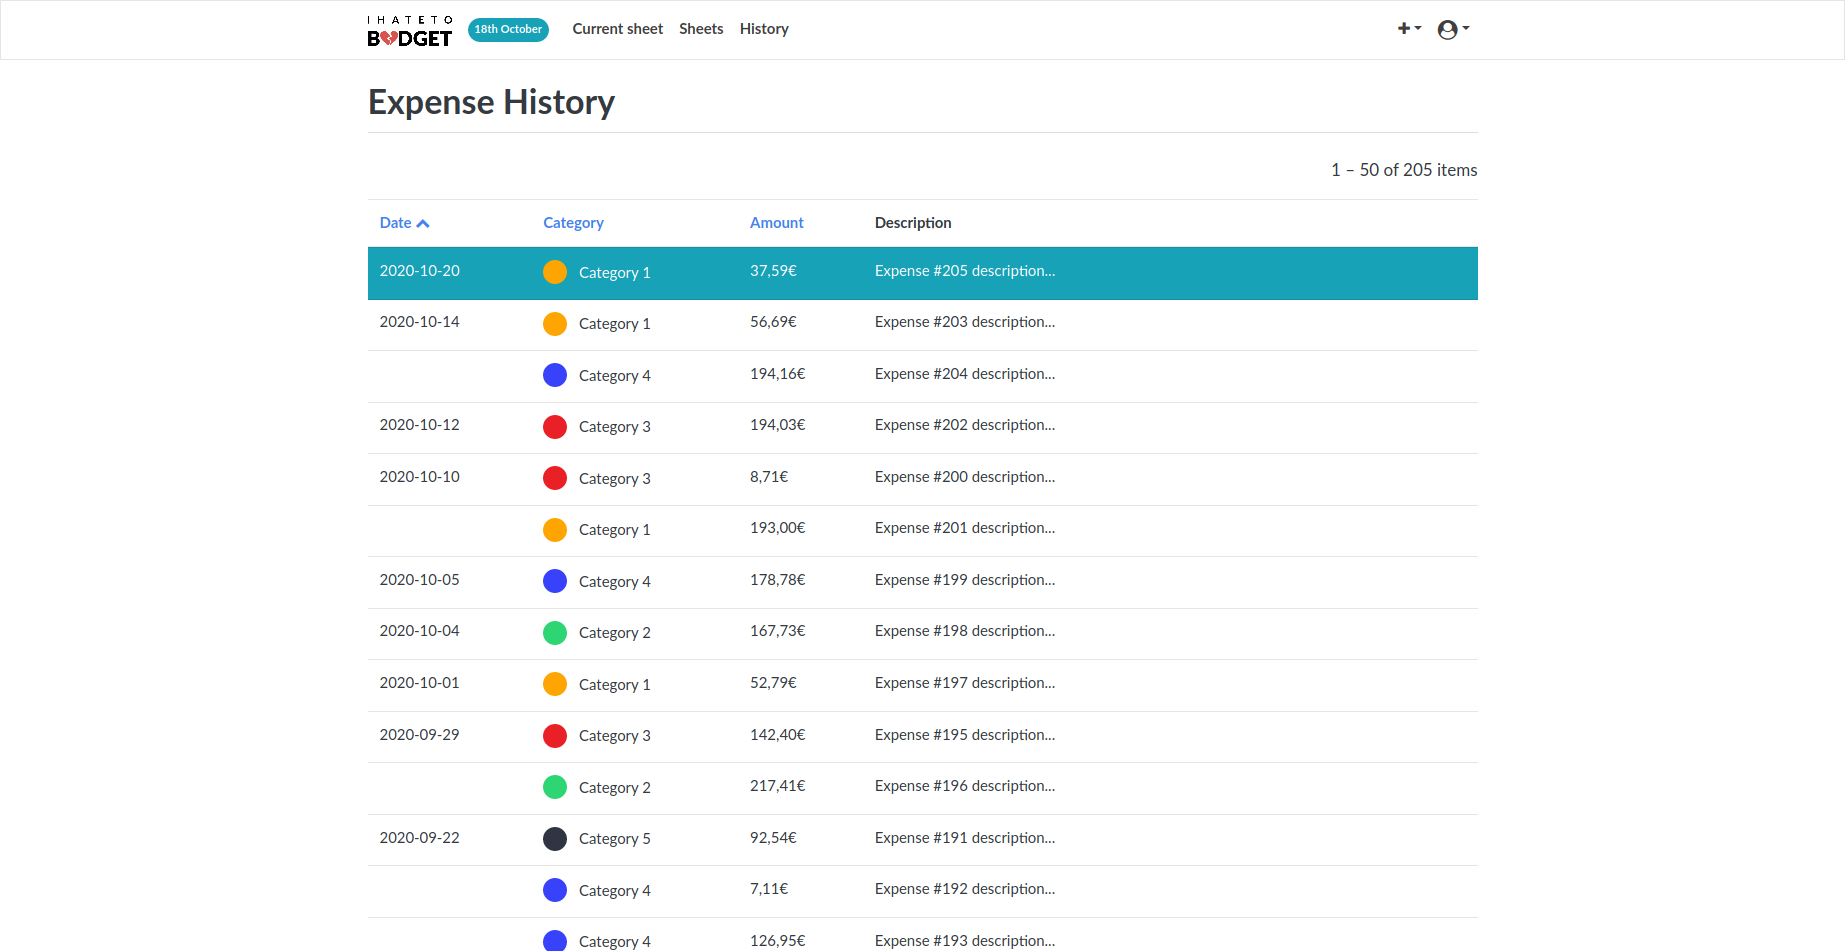
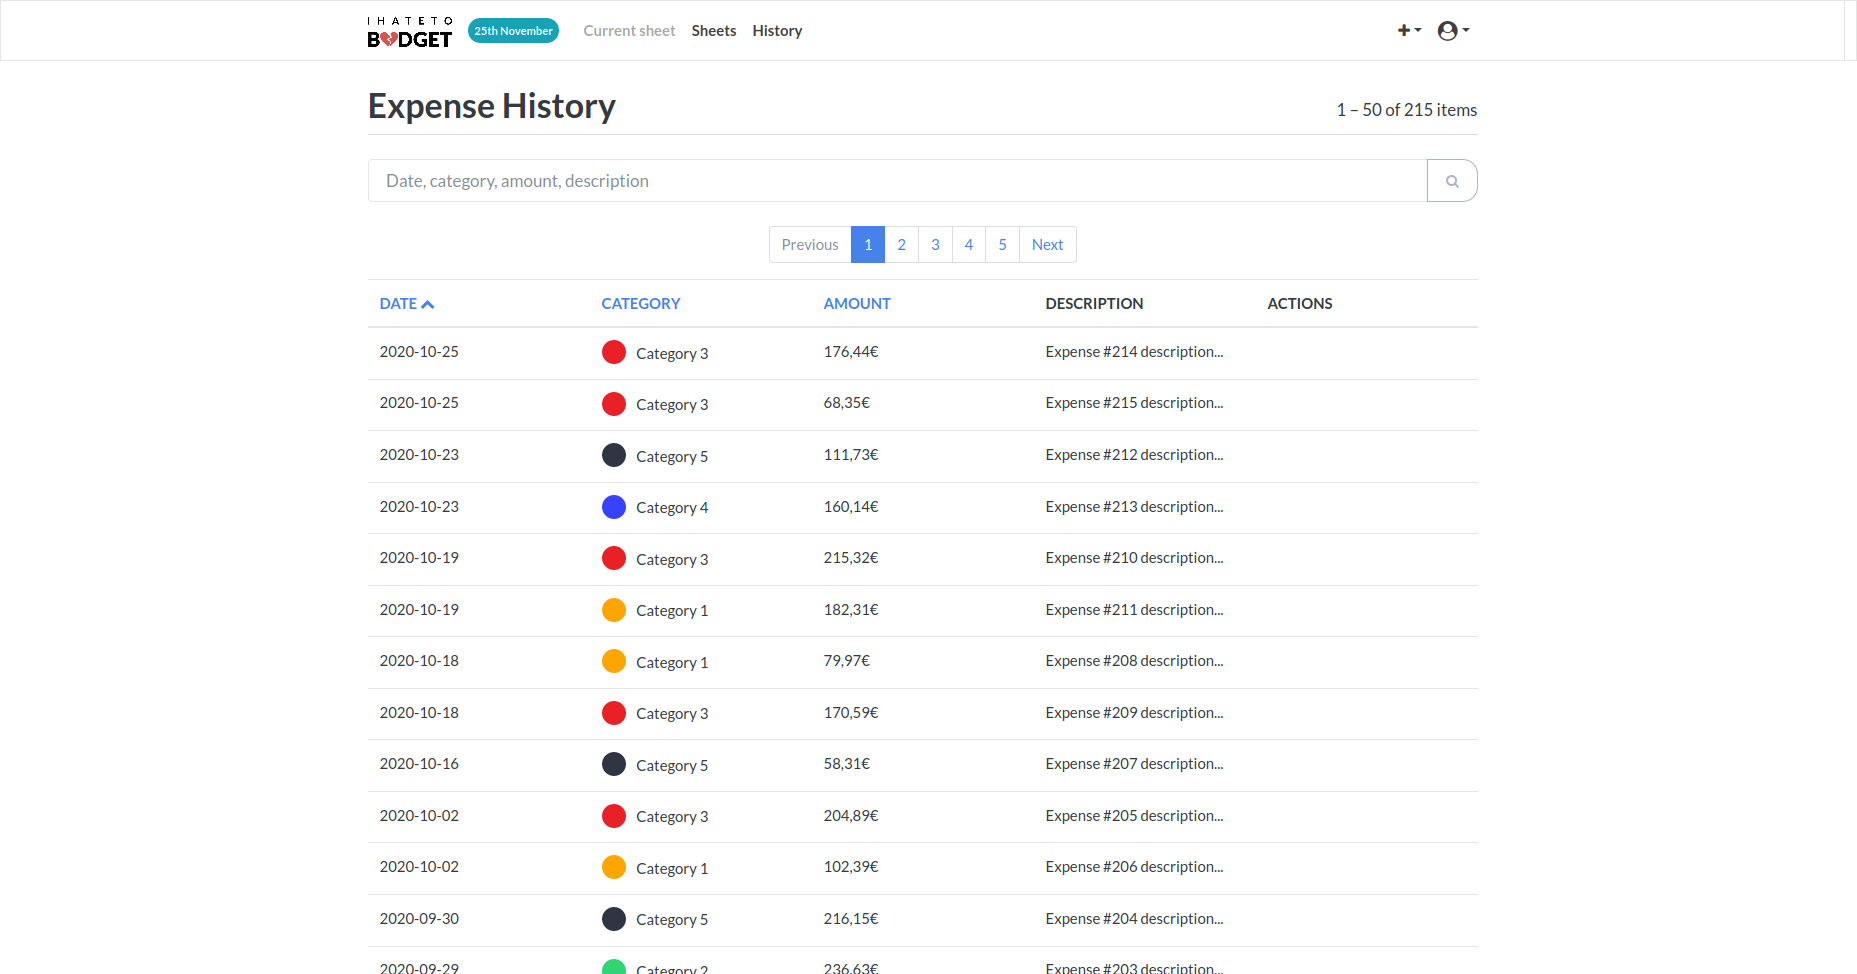
Update screenshots

diff --git a/README.md b/README.md
@@ -44,8 +44,6 @@ And it is also available for you.
 
 ## Features
 
-⚠ These screenshots are slightly outdated. ⚠
-
 #### Overview
 
 The *overview* page lets you see the overall statistics.
